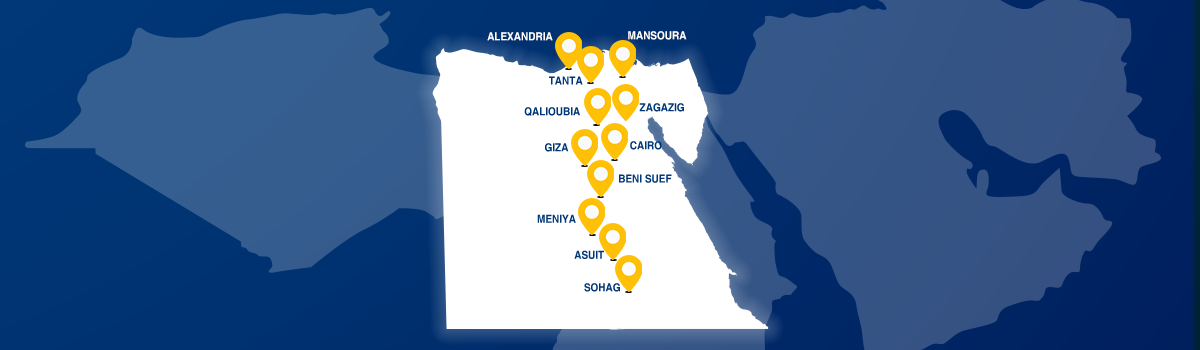
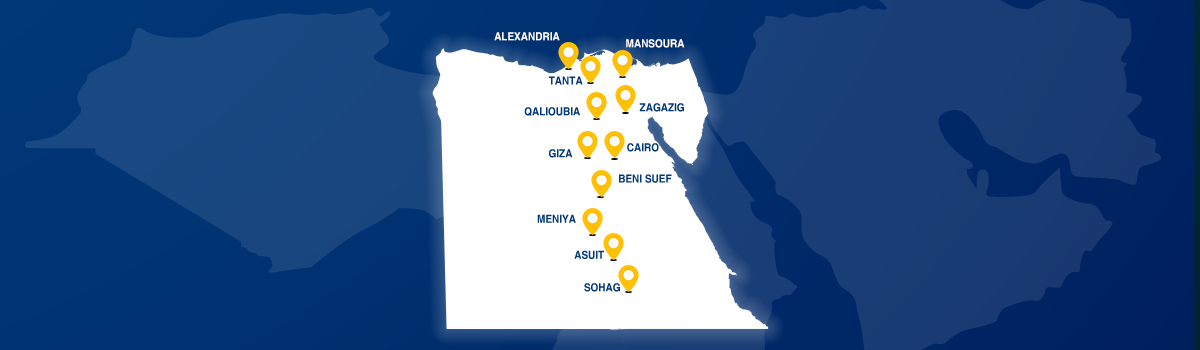
enhancment map section

diff --git a/css/style.css b/css/style.css
@@ -4885,8 +4885,17 @@ color: #7a7a7a;
 .section-wrap.mapSection{
   padding: 0px;
 }
-  @media (max-width: 768px) {
 
+.mapSection .mobileVersion{
+  display: none;
+}
+  @media (max-width: 768px) {
+    .mapSection .mobileVersion{
+      display: block;
+    }
+    .mapSection .desktopVersion{
+      display: none;
+    }
     .waveWrapperInner    {
       background-position: right !important;
 

diff --git a/index.html b/index.html
@@ -749,7 +749,9 @@
     <!-- connect start -->
     <section class="section-wrap mapSection bg-light " >
 
-      <img src="img/banner/map.png" alt="">
+      <img class="desktopVersion" src="img/banner/map.png" alt="">
+      <img class="mobileVersion" src="img/banner/mapMobile.png" alt="">
+
     </section>
 
     <!-- connect End -->
